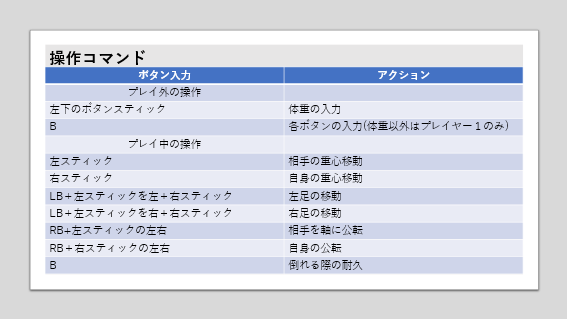
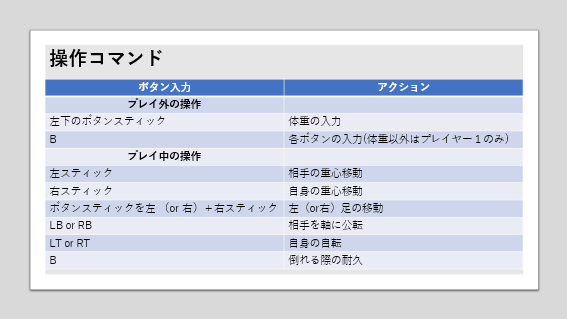
入力方法、操作中UI

diff --git a/Assets/Scripts/Game2/Rikishi2Manager.cs b/Assets/Scripts/Game2/Rikishi2Manager.cs
@@ -253,53 +253,55 @@ public class Rikishi2Manager : MonoBehaviour
                 {
                     #region プレイヤー1の入力
                     case 1:
-                        if((Input.GetAxis("LeftHorizontal1") != 0f || Input.GetAxis("LeftVertical1") != 0f) &&
-                            Input.GetAxis("Rotation1") == 0f
-                            )
+                        if(Input.GetAxis("LeftHorizontal1") != 0f || Input.GetAxis("LeftVertical1") != 0f)
                         {
                             SetEnemyGravity(Input.GetAxis("LeftHorizontal1"), Input.GetAxis("LeftVertical1"));
                         }
 
                         if((Input.GetAxis("RightHorizontal1") != 0f || Input.GetAxis("RightVertical1") != 0f) && 
-                            Input.GetAxis("Rotation1") == 0f
+                            Input.GetAxis("MoveFoot1") == 0f
                             )
                         {
                             SetOwnGravity(Input.GetAxis("RightHorizontal1"), Input.GetAxis("RightVertical1"));
                         }
 
-                        if(Input.GetAxis("LeftHorizontal1") < 0f && Input.GetAxis("Rotation1") < 0f &&
+                        if(Input.GetAxis("MoveFoot1") < 0f &&
                             (Input.GetAxis("RightHorizontal1") != 0f || Input.GetAxis("RightVertical1") != 0f)
                             )
                         {
                             SetLeftFootNum(Input.GetAxis("RightHorizontal1"), Input.GetAxis("RightVertical1"));
                         }
 
-                        if(Input.GetAxis("LeftHorizontal1") > 0f && Input.GetAxis("Rotation1") < 0f &&
+                        if(Input.GetAxis("MoveFoot1") > 0f &&
                             (Input.GetAxis("RightHorizontal1") != 0f || Input.GetAxis("RightVertical1") != 0f)
                             )
                         {
                             SetRightFootNum(Input.GetAxis("RightHorizontal1"), Input.GetAxis("RightVertical1"));
                         }
 
-                        if(Input.GetAxis("Rotation1") > 0f && Input.GetAxis("LeftHorizontal1") != 0f)
+                        if(Input.GetAxis("RightHorizontal1") == 0f && Input.GetAxis("RightVertical1") == 0f)
                         {
-                            SetWholeAngle(enemy.gameObject, -Input.GetAxis("LeftHorizontal1"));
+                            SetLeftFootNum(0, 0);
+                            SetRightFootNum(0, 0);
                         }
 
-                        if(Input.GetAxis("Rotation1") > 0f && Input.GetAxis("RightHorizontal1") != 0f)
+                        if(Input.GetAxis("Rotation1") != 0f)
                         {
-                            SetWholeAngle(this.gameObject, Input.GetAxis("RightHorizontal1"));
+                            SetWholeAngle(enemy.gameObject, -Input.GetAxis("Rotation1"));
                         }
 
-                        if(Input.GetAxis("LeftHorizontal1") == 0f && Input.GetAxis("LeftVertical1") == 0f && Input.GetAxis("Rotation1") == 0f ||
-                            (Input.GetAxis("LeftHorizontal1") != 0f || Input.GetAxis("LeftVertical1") != 0f) && Input.GetAxis("Rotation1") != 0f
-                            )
+                        if(Input.GetAxis("MyRotation1") != 0f)
+                        {
+                            SetWholeAngle(this.gameObject, Input.GetAxis("MyRotation1"));
+                        }
+
+                        if(Input.GetAxis("LeftHorizontal1") == 0f && Input.GetAxis("LeftVertical1") == 0f)
                         {
                             enemy.SetGraChangeNum(playerNum, 0, 0);
                         }
 
-                        if(Input.GetAxis("RightHorizontal1") == 0f && Input.GetAxis("RightVertical1") == 0f && Input.GetAxis("Rotation1") == 0f ||
-                            (Input.GetAxis("RightHorizontal1") != 0f || Input.GetAxis("RightVertical1") != 0f) && Input.GetAxis("Rotation1") != 0f
+                        if(Input.GetAxis("RightHorizontal1") == 0f && Input.GetAxis("RightVertical1") == 0f && Input.GetAxis("MoveFoot1") == 0f ||
+                            (Input.GetAxis("RightHorizontal1") != 0f || Input.GetAxis("RightVertical1") != 0f) && Input.GetAxis("MoveFoot1") != 0f
                             )
                         {
                             SetGraChangeNum(playerNum, 0, 0);
@@ -323,53 +325,55 @@ public class Rikishi2Manager : MonoBehaviour
                     #endregion
                     #region プレイヤー2の入力
                     case 2:
-                        if((Input.GetAxis("LeftHorizontal2") != 0f || Input.GetAxis("LeftVertical2") != 0f) &&
-                            Input.GetAxis("Rotation2") == 0f
-                            )
+                        if(Input.GetAxis("LeftHorizontal2") != 0f || Input.GetAxis("LeftVertical2") != 0f)
                         {
                             SetEnemyGravity(Input.GetAxis("LeftHorizontal2"), Input.GetAxis("LeftVertical2"));
                         }
 
                         if((Input.GetAxis("RightHorizontal2") != 0f || Input.GetAxis("RightVertical2") != 0f) && 
-                            Input.GetAxis("Rotation2") == 0f
+                            Input.GetAxis("MoveFoot2") == 0f
                             )
                         {
                             SetOwnGravity(Input.GetAxis("RightHorizontal2"), Input.GetAxis("RightVertical2"));
                         }
 
-                        if(Input.GetAxis("LeftHorizontal2") < 0f && Input.GetAxis("Rotation2") < 0f &&
+                        if(Input.GetAxis("MoveFoot2") < 0f &&
                             (Input.GetAxis("RightHorizontal2") != 0f || Input.GetAxis("RightVertical2") != 0f)
                             )
                         {
                             SetLeftFootNum(Input.GetAxis("RightHorizontal2"), Input.GetAxis("RightVertical2"));
                         }
 
-                        if(Input.GetAxis("LeftHorizontal2") > 0f && Input.GetAxis("Rotation2") < 0f &&
+                        if(Input.GetAxis("MoveFoot2") > 0f &&
                             (Input.GetAxis("RightHorizontal2") != 0f || Input.GetAxis("RightVertical2") != 0f)
                             )
                         {
                             SetRightFootNum(Input.GetAxis("RightHorizontal2"), Input.GetAxis("RightVertical2"));
                         }
 
-                        if(Input.GetAxis("Rotation2") > 0f && Input.GetAxis("LeftHorizontal2") != 0f)
+                        if(Input.GetAxis("RightHorizontal2") == 0f && Input.GetAxis("RightVertical2") == 0f)
                         {
-                            SetWholeAngle(enemy.gameObject, -Input.GetAxis("LeftHorizontal2"));
+                            SetLeftFootNum(0, 0);
+                            SetRightFootNum(0, 0);
                         }
 
-                        if(Input.GetAxis("Rotation2") > 0f && Input.GetAxis("RightHorizontal2") != 0f)
+                        if(Input.GetAxis("Rotation2") != 0f)
                         {
-                            SetWholeAngle(this.gameObject, Input.GetAxis("RightHorizontal2"));
+                            SetWholeAngle(enemy.gameObject, -Input.GetAxis("Rotation2"));
                         }
 
-                        if(Input.GetAxis("LeftHorizontal2") == 0f && Input.GetAxis("LeftVertical2") == 0f && Input.GetAxis("Rotation2") == 0f ||
-                            (Input.GetAxis("LeftHorizontal2") != 0f || Input.GetAxis("LeftVertical2") != 0f) && Input.GetAxis("Rotation2") != 0f
-                            )
+                        if(Input.GetAxis("MyRotation2") != 0f)
+                        {
+                            SetWholeAngle(this.gameObject, Input.GetAxis("MyRotation2"));
+                        }
+
+                        if(Input.GetAxis("LeftHorizontal2") == 0f && Input.GetAxis("LeftVertical2") == 0f)
                         {
                             enemy.SetGraChangeNum(playerNum, 0, 0);
                         }
 
-                        if(Input.GetAxis("RightHorizontal2") == 0f && Input.GetAxis("RightVertical2") == 0f && Input.GetAxis("Rotation2") == 0f ||
-                            (Input.GetAxis("RightHorizontal2") != 0f || Input.GetAxis("RightVertical2") != 0f) && Input.GetAxis("Rotation2") != 0f
+                        if(Input.GetAxis("RightHorizontal2") == 0f && Input.GetAxis("RightVertical2") == 0f && Input.GetAxis("MoveFoot2") == 0f ||
+                            (Input.GetAxis("RightHorizontal2") != 0f || Input.GetAxis("RightVertical2") != 0f) && Input.GetAxis("MoveFoot2") != 0f
                             )
                         {
                             SetGraChangeNum(playerNum, 0, 0);
